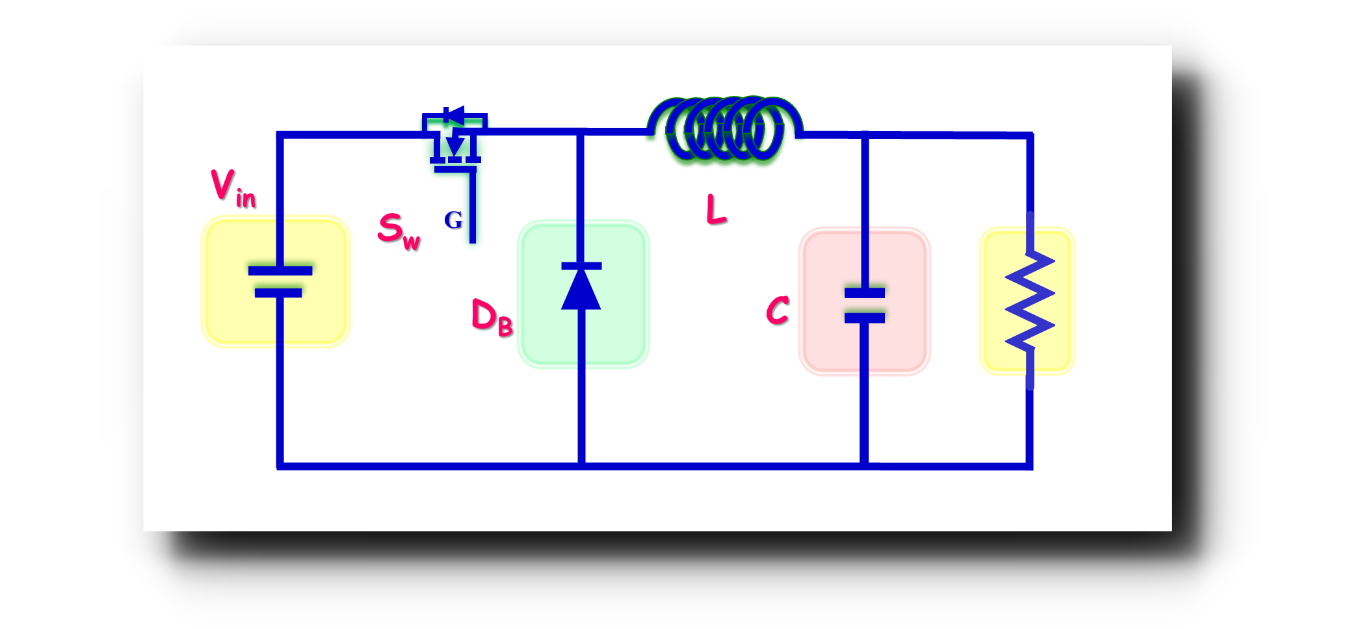
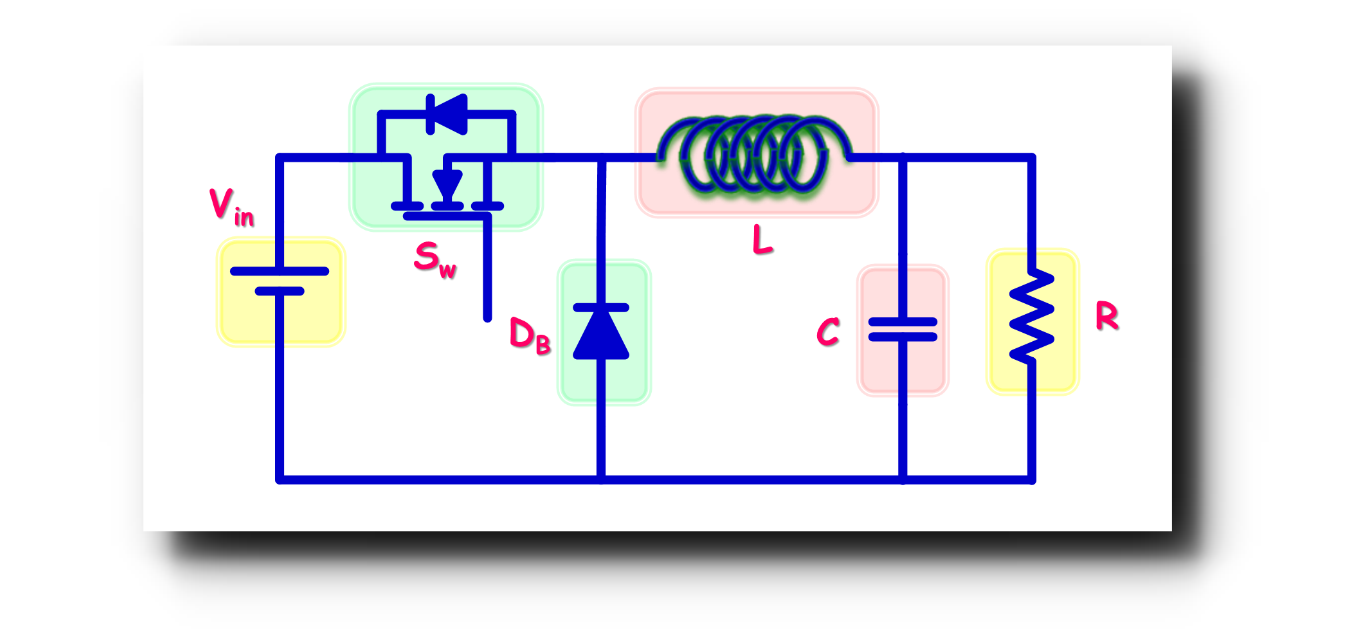
EE3 circuit formulation fixed

Changed region(s): [[0.1227, 0.1208, 0.8283, 0.7854]]

diff --git a/EE3/js/main.js b/EE3/js/main.js
@@ -1124,41 +1124,70 @@ part1_box1 : new Dom(".part1_box1"),
 
       Scenes.setStepHeading("Step-1", "Circuit Formulation");
 
+      // temp text load source
+      let st = {
+        color: "red",
+        fontSize: "20px",
+      }
+      let st2 = {
+        width: "250px",
+        fontSize: "20px",
+        color: "red",
+        textAlign: "center",
+        backgroundColor: "white",
+        padding: "10px",
+        borderRadius: "12px"
+      }
+      // ! Show Text
+      let textSelectBox = 'Select the "box"'
+      let textSelectComponent = 'Select the "component" to be placed in the box'
+      Scenes.items.tempTitle17.set(30,270).setContent("Load").styles(st)
+      Scenes.items.tempTitle18.set(675,320).setContent("Source").styles(st)
+
+      let frontText = Scenes.items.tempTitle19.set(680).setContent(textSelectBox).styles(st2)
+      Anime.fadeIn(frontText.item,0.5)
+      setCC(textSelectBox)
+
+      function showFrontText(isBox){
+        if(isBox){
+          setCC(textSelectComponent)
+          frontText.setContent(textSelectComponent)
+        }else{
+          frontText.setContent(textSelectBox)
+          setCC(textSelectBox)
+        }
+      }
+
       let reset = function(){
-                 
-          Scenes.items.part1_component_voltage.set(5+40,-20,150).zIndex(3).styles({
-              rotate: "0deg"
-            })
-          Scenes.items.part1_component_inductor.set(85+70,-20,120).zIndex(3).styles({
-              rotate: "0deg"
-            })
-          Scenes.items.part1_component_capacitor.set(85+190+70,-20,130).zIndex(3).styles({
-              rotate: "0deg"
-            })
-          Scenes.items.part1_component_mosfet.set(250+160,-40, 140).zIndex(3).styles({
-              rotate: "0deg"
-            })
-          Scenes.items.part1_component_diode.set(85+190+270+70,-20,120).zIndex(3).styles({
-              rotate: "0deg"
-            })
-          Scenes.items.part1_component_resistance.set(85+190+350+70,-31,132).zIndex(3).styles({
-              rotate: "0deg"
-            })
 
-          Scenes.items.part1_circuit.set(140,180,220)
-          Scenes.items.box2.set(213,143,80,90).zIndex(2)
-          Scenes.items.box4.set(410,143,80,90).zIndex(2)
-          Scenes.items.box1.set(96,248,90).zIndex(2)
-          Scenes.items.box3.set(317,248,90).zIndex(2)
-          Scenes.items.box5.set(515,248,90).zIndex(2)
-          Scenes.items.box6.set(612,248,90).zIndex(2)
-
-          Scenes.items.symbol_vIn.set(40,-20, 60).zIndex(5)
-          Scenes.items.symbol_L.set(208,-20, 60).zIndex(5)
-          Scenes.items.symbol_C.set(208 + 150,-25, 60).zIndex(5)
-          Scenes.items.symbol_S.set(208 + 150 + 50,-40, 60).zIndex(5)
-          Scenes.items.symbol_D.set(208 + 150 + 270,-25, 55).zIndex(5)
-          Scenes.items.symbol_R.set(208 + 150 + 350,-30, 55).zIndex(5)
+            frontText.show()
+            showFrontText(false)
+            
+            Scenes.items.part1_circuit.set(140,180,220)
+            Scenes.items.box2.set(213,143,80,90).zIndex(2)
+            Scenes.items.box4.set(410,143,80,90).zIndex(2)
+            Scenes.items.box1.set(96,248,90).zIndex(2)
+            Scenes.items.box3.set(317,248,90).zIndex(2)
+            Scenes.items.box5.set(515,248,90).zIndex(2)
+            Scenes.items.box6.set(612,248,90).zIndex(2)
+      
+      
+            // symbols required position
+            Scenes.items.symbol_vIn.set(40,-20, 60).zIndex(5)
+            Scenes.items.symbol_L.set(208,-20, 60).zIndex(5)
+            Scenes.items.symbol_C.set(208 + 150,-25, 60).zIndex(5)
+            Scenes.items.symbol_S.set(208 + 150 + 50,-40, 60).zIndex(5)
+            Scenes.items.symbol_D.set(208 + 150 + 270,-25, 55).zIndex(5)
+            Scenes.items.symbol_R.set(208 + 150 + 350,-30, 55).zIndex(5)
+            
+            //!Correct positons      
+            let st = { rotate: "0deg" }
+            Scenes.items.part1_component_voltage.set(5+40,-20,152,73).styles(st).zIndex(3)
+            Scenes.items.part1_component_inductor.set(85+70,-20,116).styles(st).zIndex(3)
+            Scenes.items.part1_component_capacitor.set(85+190+70,-20,141).styles(st).zIndex(3)
+            Scenes.items.part1_component_mosfet.set(440,-10, 150).styles(st).zIndex(3)
+            Scenes.items.part1_component_diode.set(85+190+270+70,-20,136).styles(st).zIndex(3)
+            Scenes.items.part1_component_resistance.set(85+190+350+70,-31,149).styles(st).zIndex(3)
           
 
           Scenes.items.part1_incrrct_text.set(10,40, null, 790).hide()
@@ -1193,8 +1222,9 @@ part1_box1 : new Dom(".part1_box1"),
           Scenes.items.part1_incrrct_text.set(10,40, null, 790) 
           wrongNoTimes+="1";
           if(wrongNoTimes == "11111"){
-                  Dom.setBlinkArrowRed(true,882,-18,30,30,90).play()
+            Dom.setBlinkArrowRed(true,882,-18,30,30,90).play()
             ee3_btn_hint.classList.remove("btn-deactive")
+            frontText.hide()
           }
           console.log("wrong no. of times",wrongNoTimes)
             }
@@ -1362,36 +1392,48 @@ part1_box1 : new Dom(".part1_box1"),
         boxAnimes[0].play();
         console.log("box1 clicked")
         compo.box = box1
+        // added text
+        showFrontText(true)
       }
       let box2 = Scenes.items.box2
       box2.item.onclick = ()=>{
         boxAnimes[1].play();
         console.log("box2 clicked")
         compo.box = box2
+        // added text
+        showFrontText(true)
       }
       let box3 = Scenes.items.box3
       box3.item.onclick = ()=>{
         boxAnimes[2].play();
         console.log("box3 clicked")
         compo.box = box3
+        // added text
+        showFrontText(true)
       }
       let box4 = Scenes.items.box4
       box4.item.onclick = ()=>{
         boxAnimes[3].play();
         console.log("box4 clicked")
         compo.box = box4
+        // added text
+        showFrontText(true)
       }
       let box5 = Scenes.items.box5
       box5.item.onclick = ()=>{
         boxAnimes[4].play();
         console.log("box5 clicked")
         compo.box = box5
+        // added text
+        showFrontText(true)
       }
       let box6 = Scenes.items.box6
       box6.item.onclick = ()=>{
         boxAnimes[5].play();
         console.log("box6 clicked")
         compo.box = box6
+        // added text
+        showFrontText(true)
       }
 
       //item click
@@ -1400,36 +1442,48 @@ part1_box1 : new Dom(".part1_box1"),
         console.log("item1 clicked")
         compo.item = item1
         toSet();
+        // added text
+        showFrontText(false)
       }
       let item2 = Scenes.items.part1_component_inductor
       item2.item.onclick = ()=>{
         console.log("item2 clicked")
         compo.item = item2
         toSet();
+        // added text
+        showFrontText(false)
       }
       let item3 = Scenes.items.part1_component_capacitor
       item3.item.onclick = ()=>{
         console.log("item3 clicked")
         compo.item = item3
         toSet();
+        // added text
+        showFrontText(false)
       }
       let item4 = Scenes.items.part1_component_mosfet
       item4.item.onclick = ()=>{
         console.log("item4 clicked")
         compo.item = item4
         toSet();
+        // added text
+        showFrontText(false)
       }
       let item5 = Scenes.items.part1_component_diode
       item5.item.onclick = ()=>{
         console.log("item5 clicked")
         compo.item = item5
         toSet();
+        // added text
+        showFrontText(false)
       }
       let item6 = Scenes.items.part1_component_resistance
       item6.item.onclick = ()=>{
         console.log("item6 clicked")
         compo.item = item6
         toSet();
+        // added text
+        showFrontText(false)
       }
 
       let resetActive = "";
@@ -4192,7 +4246,7 @@ part1_box1 : new Dom(".part1_box1"),
 // rangeSlider();
 
 // stepcalling
-Scenes.currentStep = 8
+Scenes.currentStep = 2
 
 Scenes.next()
 // Scenes.steps[3]()

diff --git a/EE3/js/Anime.js b/EE3/js/Anime.js
@@ -25,5 +25,22 @@ const Anime = {
                 },endDelay)
             }
           })
+    },
+    fadeIn(target,duration=1,endDelay=10,complete=null,begin=null){
+        duration = duration * 1000
+        endDelay = endDelay * 1000
+        anime({
+            targets: target,
+            duration: duration,
+            easing: "linear",
+            delay: 2000,
+            opacity: [0,1],
+            complete(){
+                if(complete)
+                    complete()
+                if(begin)
+                    begin()
+            }
+          })
     }
 }
